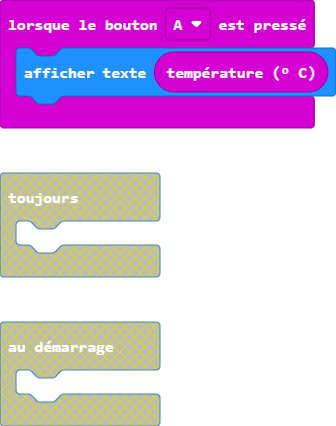
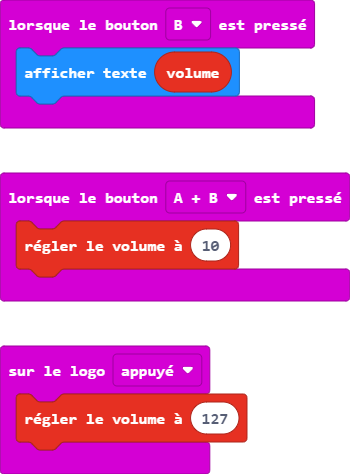
Mise à jour main.blocks, main.ts

diff --git a/main.ts b/main.ts
@@ -1,3 +1,12 @@
 input.onButtonPressed(Button.A, function () {
     basic.showString("" + (input.temperature()))
 })
+input.onButtonPressed(Button.AB, function () {
+    music.setVolume(10)
+})
+input.onButtonPressed(Button.B, function () {
+    basic.showString("" + (music.volume()))
+})
+input.onLogoEvent(TouchButtonEvent.Pressed, function () {
+    music.setVolume(127)
+})
